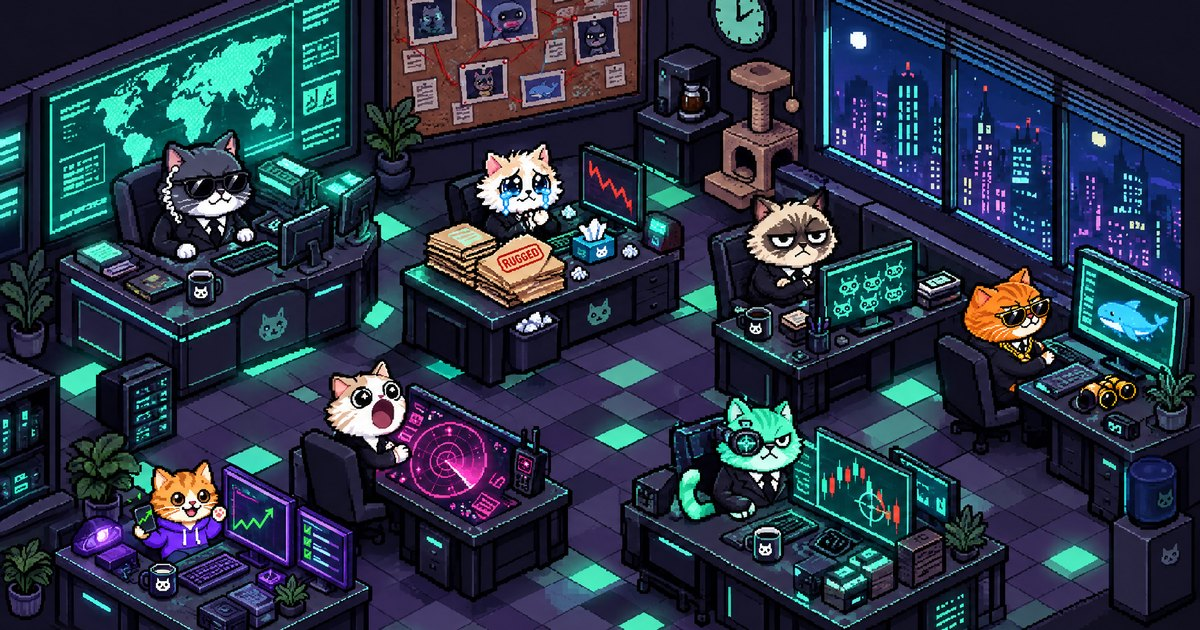
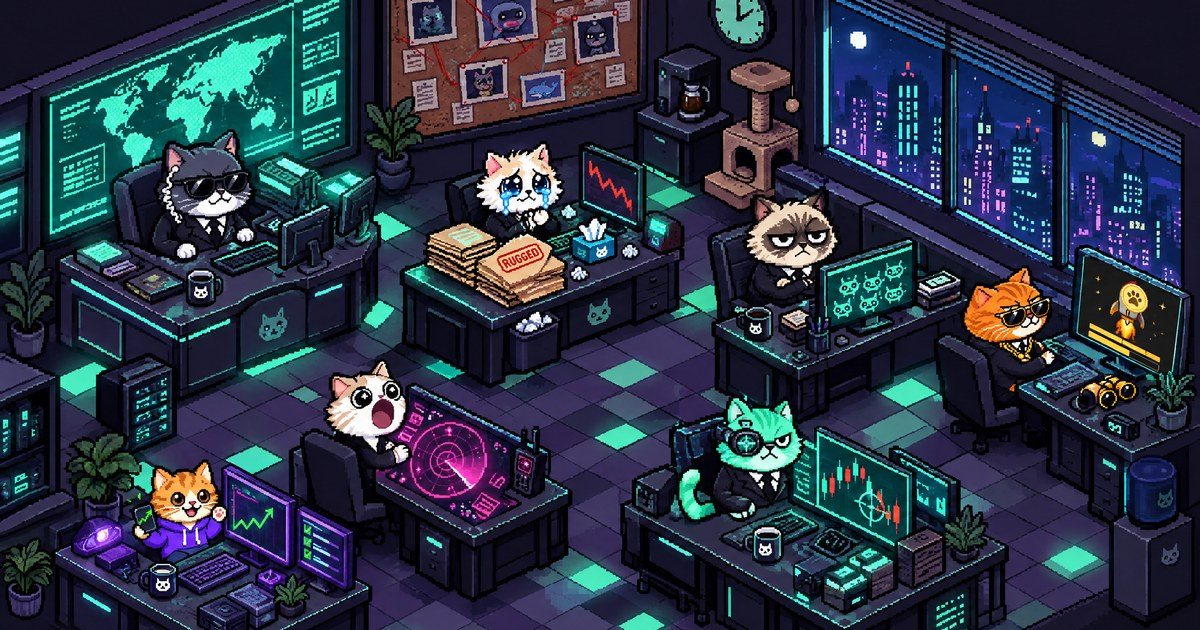
CashCat's desk launches coins now; two launch posts fit X's count
CashCat's job changed from watching whales to launching coins, so its
monitor on the work floor and its station screen follow. Both are new
Higgsfield art: the floor's monitor shows a rocket lifting a gold cat-paw
coin over two progress bars, blended into the office only where that
screen sits, so every hotspot stays where it was; the station screen is a
launch console (launch slots with progress bars, the rocket, a calendar
of ticks). The WebP copies, the floor's link preview and the alt texts
follow, and test-site pins the two new kit files.

brand/COPY.md: X counts a bare pump.fun as a 23-character link, which put
thread post 8/9 at 290 and the launch-day post at 284. Both are trimmed
to fit (276 and 270), and the note that asked for a re-check is gone.

Claude-Session: https://claude.ai/code/session_01TQMNaAcHpHNZykmEHDBCMX

Changed region(s): [[0.8633, 0.3921, 1.0, 0.6032]]

diff --git a/site/floor/index.html b/site/floor/index.html
@@ -67,7 +67,7 @@
 
   <div class="floor-frame" id="floorframe">
     <div class="floor" id="floor">
-      <img class="floor-art" src="../assets/floor/workfloor-1600.webp" srcset="../assets/floor/workfloor-1600.webp 1600w, ../assets/floor/workfloor-2688.webp 2688w" sizes="(max-width: 700px) 890px, (min-width: 1448px) 1400px, 100vw" width="2688" height="1520" fetchpriority="high" alt="The agency's work floor at night, in isometric pixel art. The Director sits at the big corner desk under a wall-sized world map. Crying Cat weeps behind piles of case files stamped RUGGED, beside a falling chart. Grumpy Cat sits arms crossed at a screen full of bot faces. CashCat, in gold sunglasses, watches a whale on the screen by the window. Popcat gasps at a hot-pink radar console. Snipurr, a scope over one eye, watches a candle chart under a crosshair. In the front corner, CoinMarketCat, an orange tabby in a purple hoodie, waves its phone beside two monitors: a rising chart and a checklist. A cork case board, a clock, a coffee machine and a cat tree line the back wall, and the city glows through the window.">
+      <img class="floor-art" src="../assets/floor/workfloor-1600.webp" srcset="../assets/floor/workfloor-1600.webp 1600w, ../assets/floor/workfloor-2688.webp 2688w" sizes="(max-width: 700px) 890px, (min-width: 1448px) 1400px, 100vw" width="2688" height="1520" fetchpriority="high" alt="The agency's work floor at night, in isometric pixel art. The Director sits at the big corner desk under a wall-sized world map. Crying Cat weeps behind piles of case files stamped RUGGED, beside a falling chart. Grumpy Cat sits arms crossed at a screen full of bot faces. CashCat, in gold sunglasses, watches a gold coin ride a rocket off the screen by the window. Popcat gasps at a hot-pink radar console. Snipurr, a scope over one eye, watches a candle chart under a crosshair. In the front corner, CoinMarketCat, an orange tabby in a purple hoodie, waves its phone beside two monitors: a rising chart and a checklist. A cork case board, a clock, a coffee machine and a cat tree line the back wall, and the city glows through the window.">
       <div class="fx" aria-hidden="true">
         <span class="crt crt-map"></span>
         <span class="crt crt-cry"></span>
@@ -376,7 +376,7 @@ This is our opinion on public data, not an accusation of a crime. Wrong? Reply w
 <template id="tpl-cashcat">
   <div class="st" data-cat="cashcat" style="--accent:#f5c542;--accent-text:#f5c542">
     <div class="st-desk">
-      <div class="st-monitor"><img class="st-screen" src="../assets/floor/screen-cashcat-800.webp" width="800" height="603" alt="CashCat's monitor: a blue whale swimming through a loop of gold coins moving between wallets"><span class="st-crt" aria-hidden="true"></span></div>
+      <div class="st-monitor"><img class="st-screen" src="../assets/floor/screen-cashcat-800.webp" width="800" height="603" alt="CashCat's monitor: launch control, a rocket carrying a gold cat-paw coin lifting off, beside a column of launch slots with filling progress bars and a calendar of ticks"><span class="st-crt" aria-hidden="true"></span></div>
       <img class="st-kitten kitten" src="../assets/sprites/cashcat.png" width="143" height="208" style="--w:143;--h:208" alt="CashCat: an orange tabby kitten in a black suit and gold sunglasses, holding gold binoculars">
     </div>
     <div class="st-id">

diff --git a/brand/COPY.md b/brand/COPY.md
@@ -6,7 +6,7 @@ Copy for the X page, the launch, the agents, the memecoin and the site. Paste-re
 - **Ticker.** `$CIA` is a working placeholder. The owner may change it; if so, replace it everywhere in this file.
 - **OWNER TO CONFIRM** marks a decision that has not been made yet. Do not publish those lines until it has.
 - **Names to check.** "Grumpy Cat" is a registered trademark, and "Popcat" is also the name of an existing memecoin. Read section 7 before either name goes public. The owner's names stay the defaults throughout.
-- **How the counts work.** Every X post and bio below is plain ASCII, so the count printed under it is what X counts. X counts any link as 23 characters, however long it is. A post with a contract-address slot `[CA]` is counted as if it held a full 44-character Solana address. X also links a bare domain such as `pump.fun`, so it counts 23 too: the posts rewritten for the seven cats are counted that way; the memecoin posts in sections 2 and 5 were counted before, as plain text, and should be re-checked before they go out.
+- **How the counts work.** Every X post and bio below is plain ASCII, so the count printed under it is what X counts. X counts any link as 23 characters, however long it is. A post with a contract-address slot `[CA]` is counted as if it held a full 44-character Solana address. X also links a bare domain such as `pump.fun`, so it counts 23 too, and every count below is made that way.
 
 **The rules this copy follows. Keep to them in every new post:**
 
@@ -188,11 +188,11 @@ The agency is launching a memecoin: Cat Intelligence Agency, $CIA.
 
 Fair launch on pump.fun. No presale, no team allocation.
 
-It's a meme: no intrinsic value, no utility, no expectation of profit.
+A meme: no intrinsic value, no utility, no expectation of profit.
 
-The only real CA is the one posted on this account. We will never DM you. 8/9
+The only real CA is the one posted on this account. We never DM. 8/9
 ```
-Count: 275 / 280
+Count: 276 / 280
 
 If the launch terms are not confirmed, use this version instead:
 ```text
@@ -501,11 +501,11 @@ Cat Intelligence Agency ($CIA) is live on pump.fun.
 
 CA: [CA]
 
-This account is the only place we post the CA. Check it character by character. We will never DM you.
+This account is the only place we post the CA. Check it character by character. We never DM.
 
-It's a meme: no intrinsic value, no expectation of profit. NFA.
+A meme: no intrinsic value, no expectation of profit. NFA.
 ```
-Count: 269 / 280
+Count: 270 / 280
 
 ### Scam warning
 
